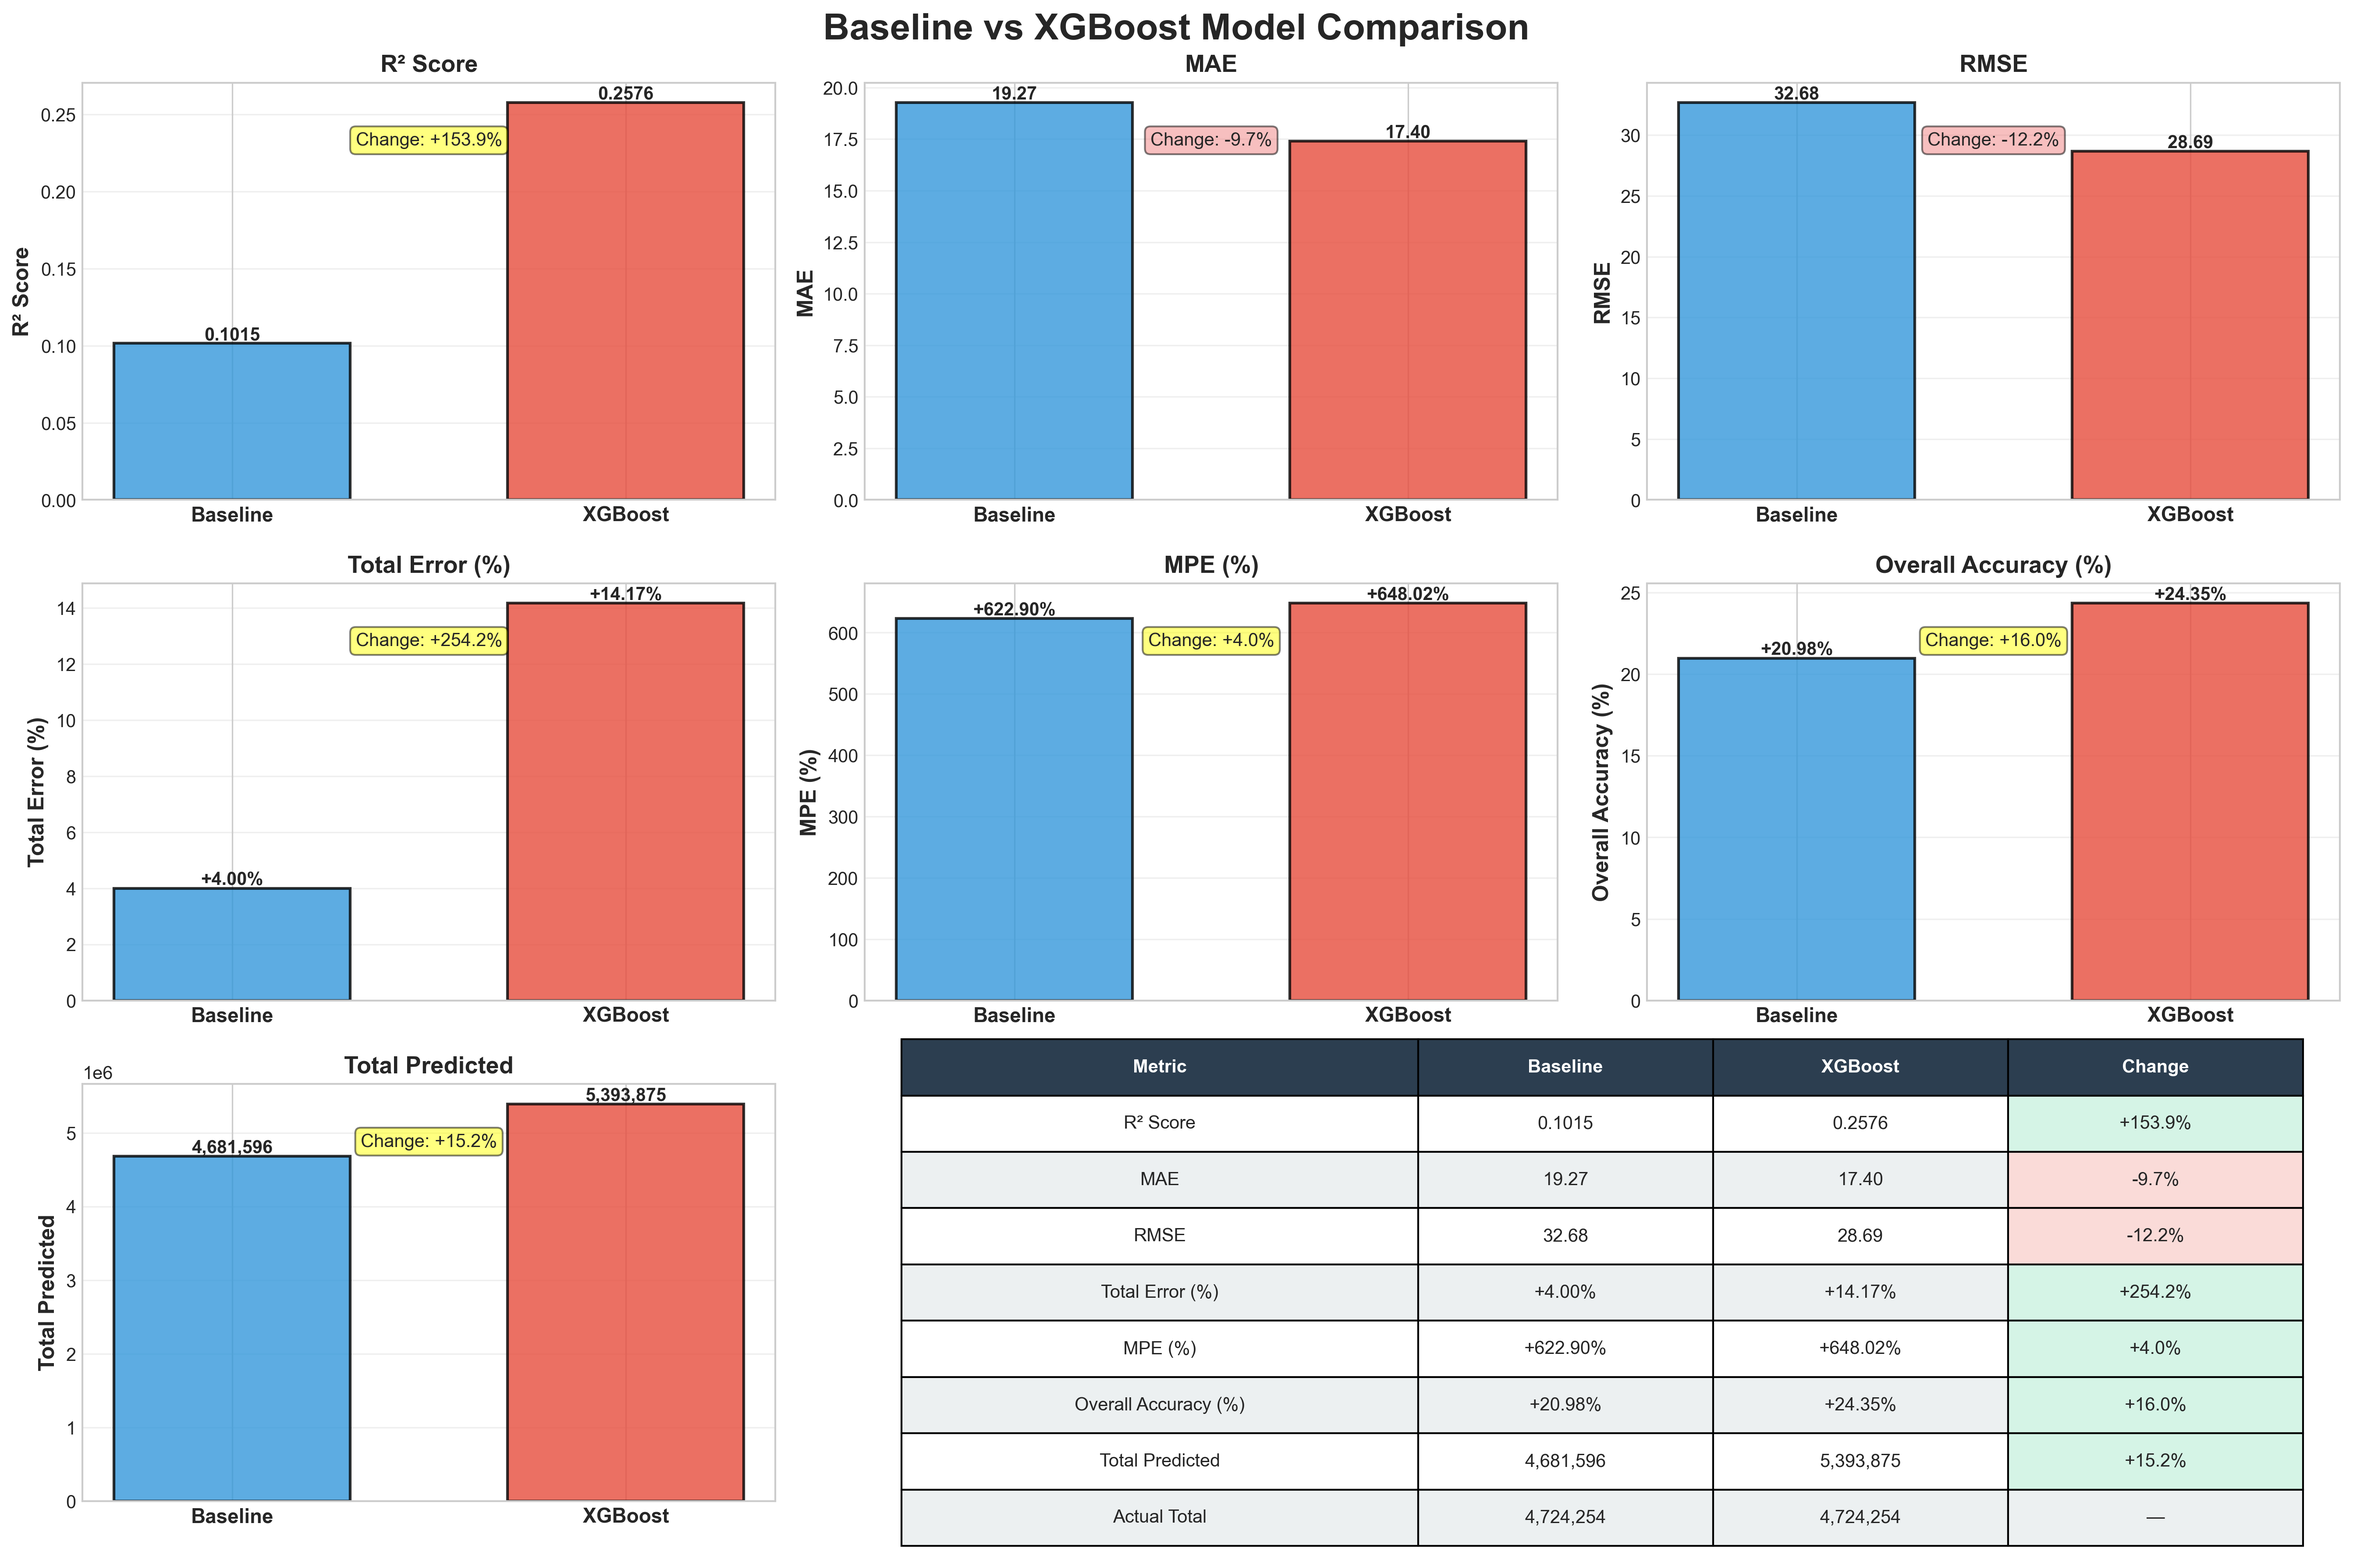
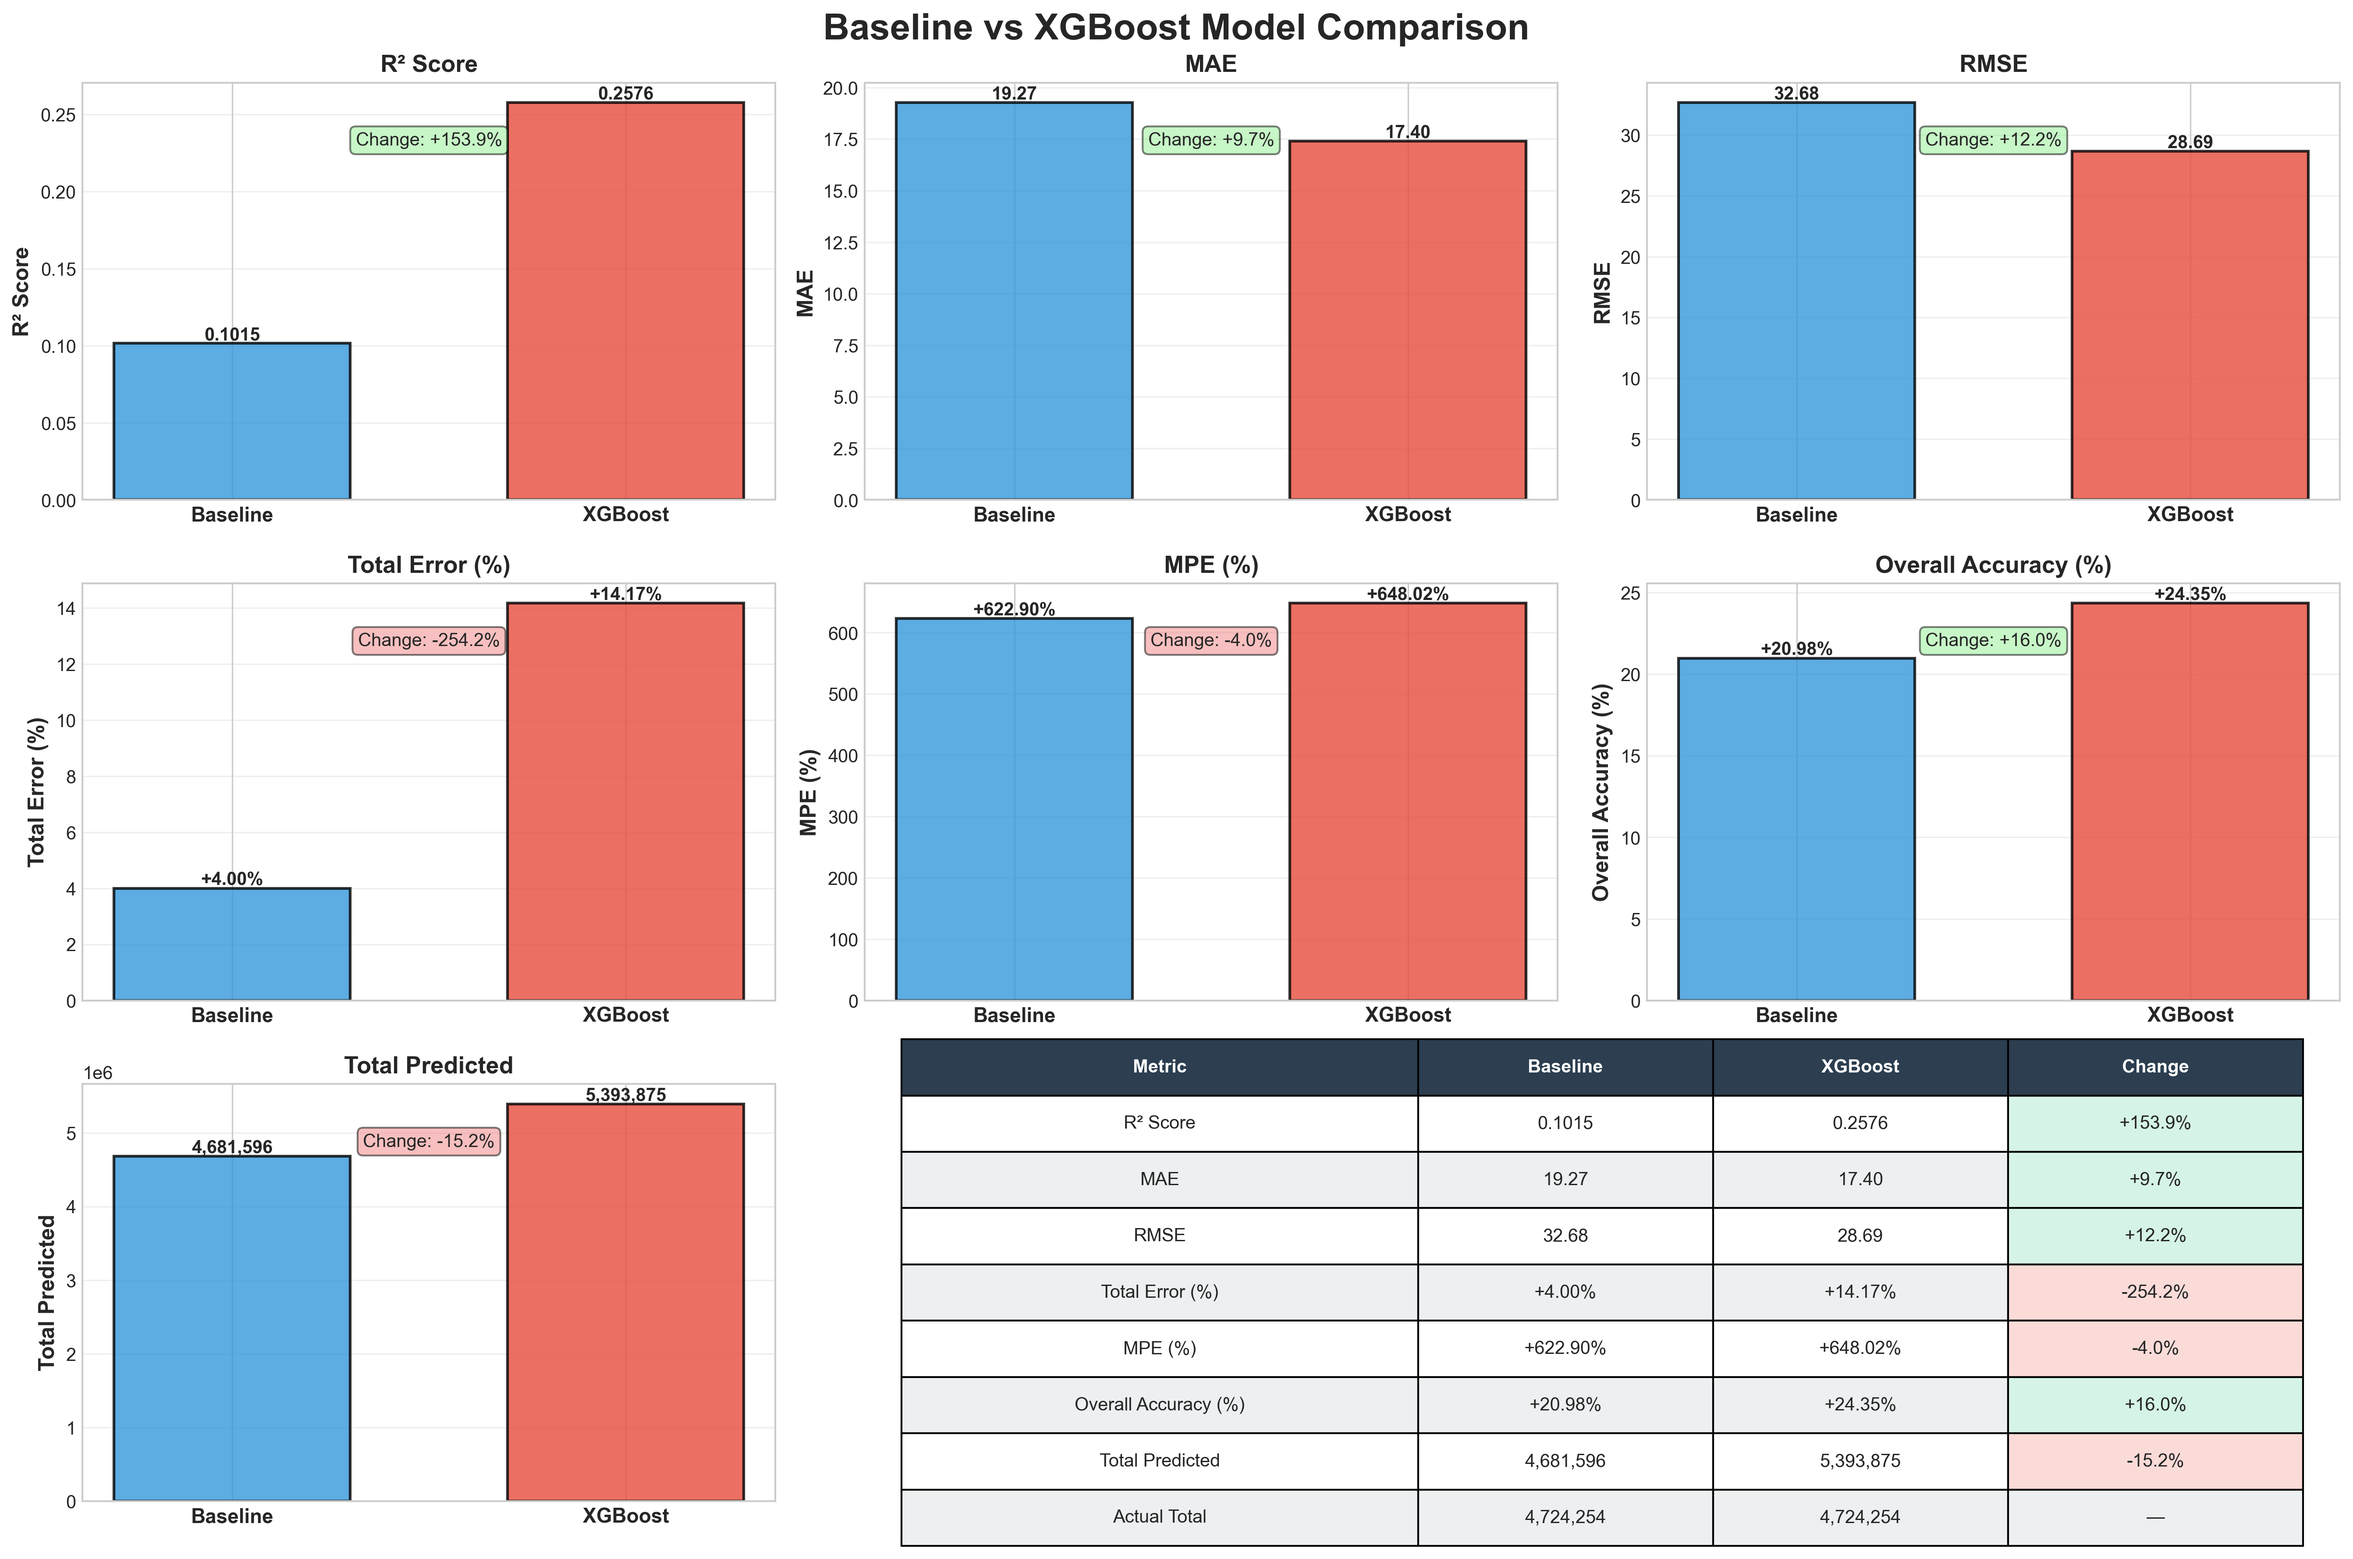
fix metrics

diff --git a/src/visualization/three_model_comparison.py b/src/visualization/three_model_comparison.py
@@ -89,12 +89,15 @@ def create_comparison_plot():
         no_pop_val = values[1]
         poi_only_val = values[2]
         
-        # For R² and Overall Accuracy, higher is better
-        # For others, lower is better
+        # Calculate improvement based on metric type
         if metric_key in ['R2', 'Overall_Accuracy']:
             improve_no_pop = ((no_pop_val - baseline_val) / abs(baseline_val)) * 100 if not np.isnan(no_pop_val) else 0
             improve_poi = ((poi_only_val - baseline_val) / abs(baseline_val)) * 100 if not np.isnan(poi_only_val) else 0
             improve_poi_vs_no_pop = ((poi_only_val - no_pop_val) / abs(no_pop_val)) * 100 if not np.isnan(poi_only_val) else 0
+        elif metric_key in ['MPE', 'Total_Error_Pct']:
+            improve_no_pop = ((abs(baseline_val) - abs(no_pop_val)) / abs(baseline_val)) * 100 if not np.isnan(no_pop_val) and baseline_val != 0 else 0
+            improve_poi = ((abs(baseline_val) - abs(poi_only_val)) / abs(baseline_val)) * 100 if not np.isnan(poi_only_val) and baseline_val != 0 else 0
+            improve_poi_vs_no_pop = ((abs(no_pop_val) - abs(poi_only_val)) / abs(no_pop_val)) * 100 if not np.isnan(poi_only_val) and no_pop_val != 0 else 0
         else:
             improve_no_pop = ((baseline_val - no_pop_val) / abs(baseline_val)) * 100 if not np.isnan(no_pop_val) else 0
             improve_poi = ((baseline_val - poi_only_val) / abs(baseline_val)) * 100 if not np.isnan(poi_only_val) else 0
@@ -146,22 +149,34 @@ def create_comparison_plot():
         no_pop_val = no_pop[metric_key].values[0] if metric_key in no_pop.columns else np.nan
         poi_only_val = poi_only[metric_key].values[0] if metric_key in poi_only.columns else np.nan
         
-        # Calculate changes
         if metric_key in ['R2', 'Overall_Accuracy']:
             change_no_pop = ((no_pop_val - baseline_val) / abs(baseline_val)) * 100 if not np.isnan(no_pop_val) else np.nan
             change_poi = ((poi_only_val - baseline_val) / abs(baseline_val)) * 100 if not np.isnan(poi_only_val) else np.nan
             change_poi_vs_no_pop = ((poi_only_val - no_pop_val) / abs(no_pop_val)) * 100 if not np.isnan(poi_only_val) else np.nan
+        elif metric_key in ['MPE', 'Total_Error_Pct']:
+            change_no_pop = ((abs(baseline_val) - abs(no_pop_val)) / abs(baseline_val)) * 100 if not np.isnan(no_pop_val) and baseline_val != 0 else np.nan
+            change_poi = ((abs(baseline_val) - abs(poi_only_val)) / abs(baseline_val)) * 100 if not np.isnan(poi_only_val) and baseline_val != 0 else np.nan
+            change_poi_vs_no_pop = ((abs(no_pop_val) - abs(poi_only_val)) / abs(no_pop_val)) * 100 if not np.isnan(poi_only_val) and no_pop_val != 0 else np.nan
         else:
             change_no_pop = ((baseline_val - no_pop_val) / abs(baseline_val)) * 100 if not np.isnan(no_pop_val) else np.nan
             change_poi = ((baseline_val - poi_only_val) / abs(baseline_val)) * 100 if not np.isnan(poi_only_val) else np.nan
             change_poi_vs_no_pop = ((no_pop_val - poi_only_val) / abs(no_pop_val)) * 100 if not np.isnan(poi_only_val) else np.nan
         
+        if metric_key in ['MPE', 'Total_Error_Pct']:
+            baseline_str = f'{baseline_val:+.2f}' if not np.isnan(baseline_val) else 'N/A'
+            no_pop_str = f'{no_pop_val:+.2f}' if not np.isnan(no_pop_val) else 'N/A'
+            poi_str = f'{poi_only_val:+.2f}' if not np.isnan(poi_only_val) else 'N/A'
+        else:
+            baseline_str = f'{baseline_val:.2f}' if not np.isnan(baseline_val) else 'N/A'
+            no_pop_str = f'{no_pop_val:.2f}' if not np.isnan(no_pop_val) else 'N/A'
+            poi_str = f'{poi_only_val:.2f}' if not np.isnan(poi_only_val) else 'N/A'
+        
         row = [
             metric_key,
-            f'{baseline_val:.2f}' if not np.isnan(baseline_val) else 'N/A',
-            f'{no_pop_val:.2f}' if not np.isnan(no_pop_val) else 'N/A',
+            baseline_str,
+            no_pop_str,
             f'{change_no_pop:+.1f}%' if not np.isnan(change_no_pop) else 'N/A',
-            f'{poi_only_val:.2f}' if not np.isnan(poi_only_val) else 'N/A',
+            poi_str,
             f'{change_poi:+.1f}%' if not np.isnan(change_poi) else 'N/A',
             f'{change_poi_vs_no_pop:+.1f}%' if not np.isnan(change_poi_vs_no_pop) else 'N/A'
         ]

diff --git a/src/visualization/model_comparison.py b/src/visualization/model_comparison.py
@@ -94,12 +94,19 @@ def create_model_comparison_plot():
         if any(v < 0 for v in values):
             ax.axhline(y=0, color='black', linestyle='-', linewidth=1)
         
-        # Add improvement percentage
-        improvement = ((values[1] - values[0]) / abs(values[0])) * 100
+        # Calculate improvement based on metric type
+        if 'MPE' in metric_name or 'Total Error' in metric_name:
+            improvement = ((abs(values[0]) - abs(values[1])) / abs(values[0])) * 100
+        elif 'R²' in metric_name or 'Overall Accuracy' in metric_name:
+            improvement = ((values[1] - values[0]) / abs(values[0])) * 100
+        else:
+            improvement = ((values[0] - values[1]) / abs(values[0])) * 100
+        
+        color_bg = 'lightgreen' if improvement > 0 else 'lightcoral'
         ax.text(0.5, ax.get_ylim()[1] * 0.85, 
                f'Change: {improvement:+.1f}%',
                ha='center', fontsize=10, 
-               bbox=dict(boxstyle='round', facecolor='yellow' if improvement > 0 else 'lightcoral', alpha=0.5))
+               bbox=dict(boxstyle='round', facecolor=color_bg, alpha=0.5))
         
         ax.grid(axis='y', alpha=0.3)
     
@@ -117,7 +124,12 @@ def create_model_comparison_plot():
     ]
     
     for metric_name, (base_val, xgb_val) in metrics.items():
-        change = ((xgb_val - base_val) / abs(base_val)) * 100
+        if 'MPE' in metric_name or 'Total Error' in metric_name:
+            change = ((abs(base_val) - abs(xgb_val)) / abs(base_val)) * 100
+        elif 'R²' in metric_name or 'Overall Accuracy' in metric_name:
+            change = ((xgb_val - base_val) / abs(base_val)) * 100
+        else:
+            change = ((base_val - xgb_val) / abs(base_val)) * 100
         
         if 'Total Predicted' in metric_name:
             base_str = f'{base_val:,.0f}'

diff --git a/src/visualization/xgboost_poi_comparison.py b/src/visualization/xgboost_poi_comparison.py
@@ -101,8 +101,14 @@ def create_xgboost_poi_comparison_plot():
         if any(v < 0 for v in values):
             ax.axhline(y=0, color='black', linestyle='-', linewidth=1)
         
-        # Add improvement percentage
-        improvement = ((values[1] - values[0]) / abs(values[0])) * 100
+        # Calculate improvement based on metric type
+        if 'MPE' in metric_name or 'Total Error' in metric_name:
+            improvement = ((abs(values[0]) - abs(values[1])) / abs(values[0])) * 100
+        elif 'R²' in metric_name or 'Overall Accuracy' in metric_name:
+            improvement = ((values[1] - values[0]) / abs(values[0])) * 100
+        else:
+            improvement = ((values[0] - values[1]) / abs(values[0])) * 100
+        
         color_bg = 'lightgreen' if improvement > 0 else 'lightcoral'
         ax.text(0.5, ax.get_ylim()[1] * 0.85, 
                f'Change: {improvement:+.1f}%',
@@ -124,7 +130,12 @@ def create_xgboost_poi_comparison_plot():
     ]
     
     for metric_name, (no_poi_val, with_poi_val) in metrics.items():
-        change = ((with_poi_val - no_poi_val) / abs(no_poi_val)) * 100
+        if 'MPE' in metric_name or 'Total Error' in metric_name:
+            change = ((abs(no_poi_val) - abs(with_poi_val)) / abs(no_poi_val)) * 100
+        elif 'R²' in metric_name or 'Overall Accuracy' in metric_name:
+            change = ((with_poi_val - no_poi_val) / abs(no_poi_val)) * 100
+        else:
+            change = ((no_poi_val - with_poi_val) / abs(no_poi_val)) * 100
         
         if 'Total Predicted' in metric_name:
             no_poi_str = f'{no_poi_val:,.0f}'
